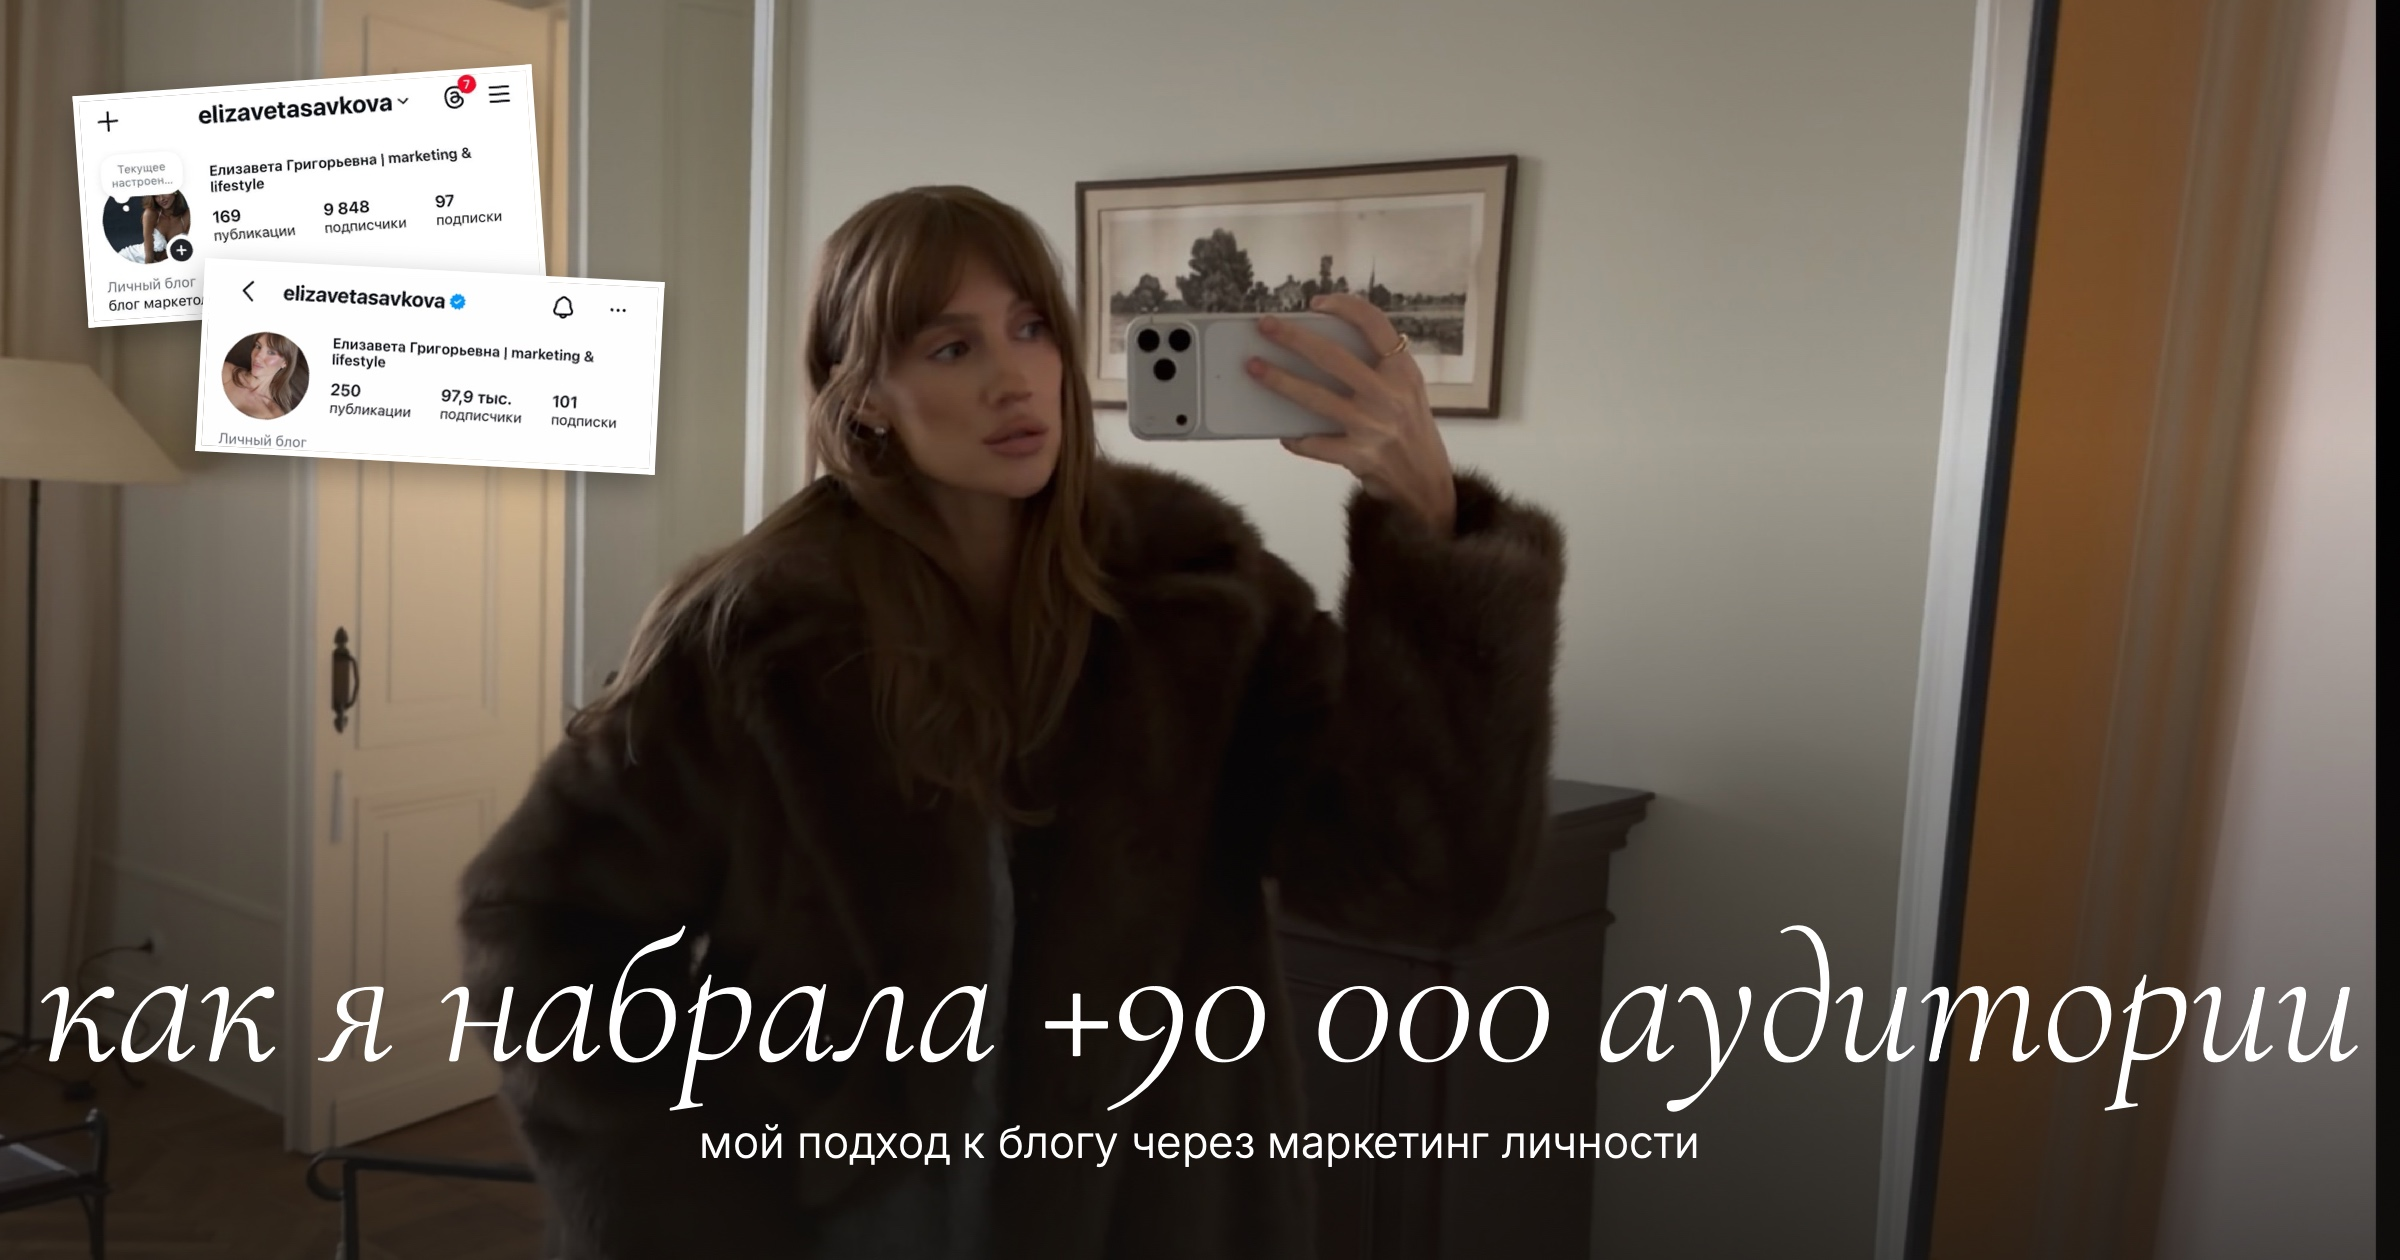
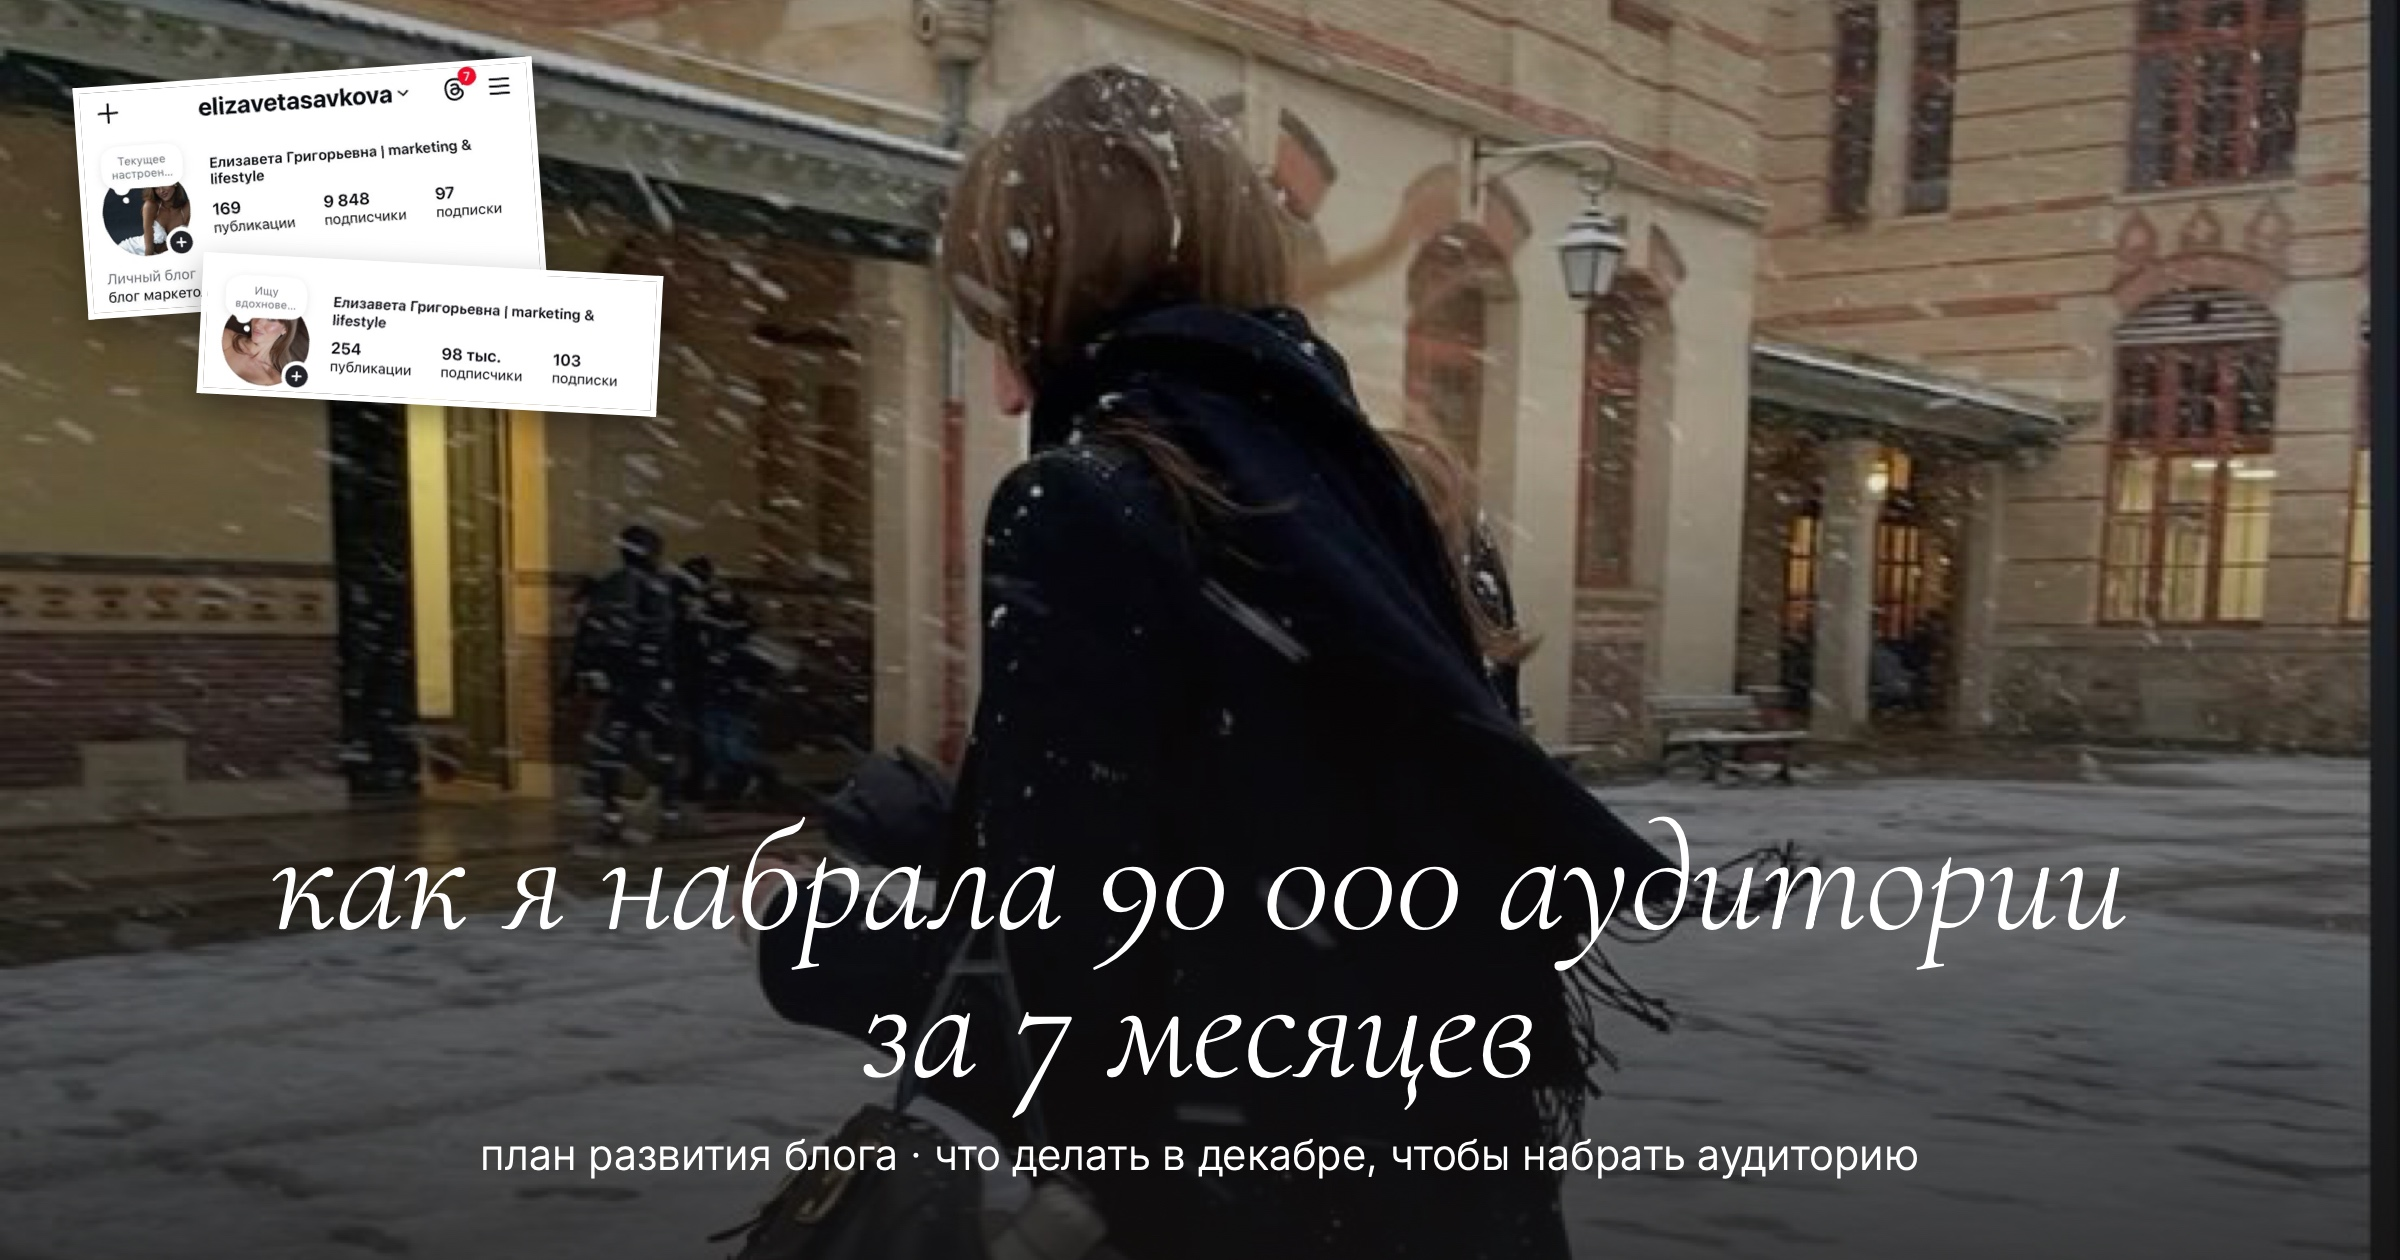
Новое название, обложка и свежий скрин подписчиков (98 тыс.)

diff --git a/index.html b/index.html
@@ -3,11 +3,11 @@
 <head>
 <meta charset="utf-8">
 <meta name="viewport" content="width=device-width,initial-scale=1,viewport-fit=cover">
-<title>Как я набрала +90 000 аудитории · Елизавета Савкова</title>
-<meta name="description" content="Мой подход к блогу через маркетинг личности: три шага, как снимать легко и какой контент делать в декабре">
+<title>Как я набрала 90 000 аудитории за 7 месяцев · Елизавета Савкова</title>
+<meta name="description" content="План развития блога. Что делать в декабре, чтобы набрать аудиторию">
 <meta property="og:type" content="article">
-<meta property="og:title" content="Как я набрала +90 000 аудитории">
-<meta property="og:description" content="Мой подход к блогу через маркетинг личности: три шага, как снимать легко и какой контент делать в декабре">
+<meta property="og:title" content="Как я набрала 90 000 аудитории за 7 месяцев">
+<meta property="og:description" content="План развития блога. Что делать в декабре, чтобы набрать аудиторию">
 <meta property="og:image" content="https://savkovaelizavetagr-hub.github.io/plus-90000/img/og.jpg">
 <meta property="og:url" content="https://savkovaelizavetagr-hub.github.io/plus-90000/">
 <meta name="twitter:card" content="summary_large_image">
@@ -48,17 +48,17 @@ b{font-weight:500}
 
 /* обложка */
 .cover{position:relative;width:100%;min-height:clamp(500px,66svh,620px);display:flex;overflow:hidden;background:#2b2724}
-.cover-img{position:absolute;inset:0;width:100%;height:100%;max-width:100%;object-fit:cover;object-position:38% 30%}
+.cover-img{position:absolute;inset:0;width:100%;height:100%;max-width:100%;object-fit:cover;object-position:50% 12%}
 .cover::after{content:"";position:absolute;inset:0;background:linear-gradient(180deg,rgba(20,18,16,.25) 0%,rgba(20,18,16,.05) 35%,rgba(20,18,16,.3) 62%,rgba(20,18,16,.72) 100%)}
 .cover-inner{position:relative;z-index:1;flex:1;display:flex;flex-direction:column;justify-content:flex-end;align-items:center;gap:16px;max-width:760px;margin:0 auto;padding-left:max(20px,env(safe-area-inset-left,0px));padding-right:max(20px,env(safe-area-inset-right,0px));padding-block:40px 44px;color:#fff;text-align:center}
-.cover-inner h1{font-size:clamp(2.9rem,10.5vw,5rem);color:#fff}
+.cover-inner h1{font-size:clamp(2.5rem,9vw,4.4rem);color:#fff}
 .cover-inner p{font-size:clamp(.8rem,2.8vw,1rem);font-weight:300;color:#fff}
 .cover-shots{position:absolute;z-index:2;left:max(20px,env(safe-area-inset-left,0px));top:28px;width:clamp(130px,22vw,210px);height:clamp(110px,18vw,170px);pointer-events:none}
 .cover-shots img{position:absolute;width:100%;max-width:100%;display:block;border:3px solid #fff;box-shadow:0 6px 18px rgba(0,0,0,.35)}
 .cover-shots .s1{left:0;top:0;transform:rotate(-4deg)}
 .cover-shots .s2{left:26%;top:56%;transform:rotate(3deg)}
 @media (max-width:600px){
-  .cover-shots{left:auto;right:max(16px,env(safe-area-inset-right,0px));top:20px;width:128px;height:104px}
+  .cover-shots{left:max(14px,env(safe-area-inset-left,0px));top:18px;width:120px;height:96px}
   .cover-shots img{width:80%}
   .cover-shots .s2{left:20%}
 }
@@ -125,8 +125,8 @@ footer{padding-top:40px;font-size:.85rem;color:var(--muted);text-align:center}
     <img class="s2" src="img/after.jpg" alt="">
   </div>
   <div class="cover-inner">
-    <h1 class="script">как я набрала +90&nbsp;000 аудитории</h1>
-    <p>мой подход к блогу через маркетинг личности</p>
+    <h1 class="script">как я набрала 90&nbsp;000 аудитории за 7&nbsp;месяцев</h1>
+    <p>план развития блога · что делать в декабре, чтобы набрать аудиторию</p>
   </div>
 </div>
 
